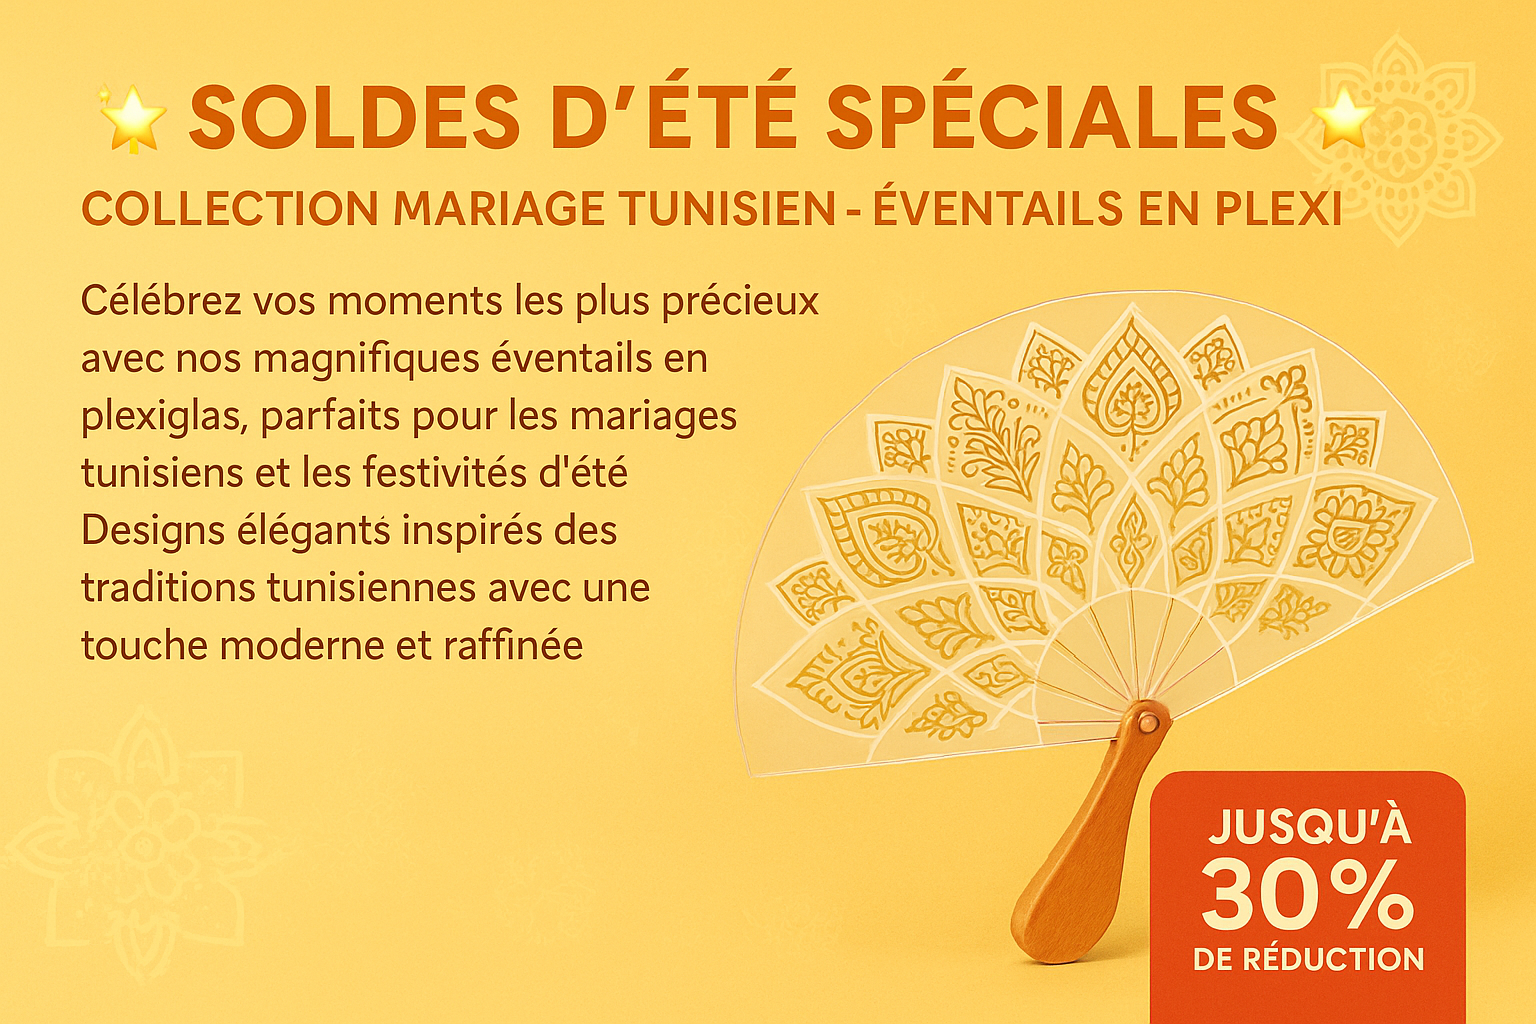
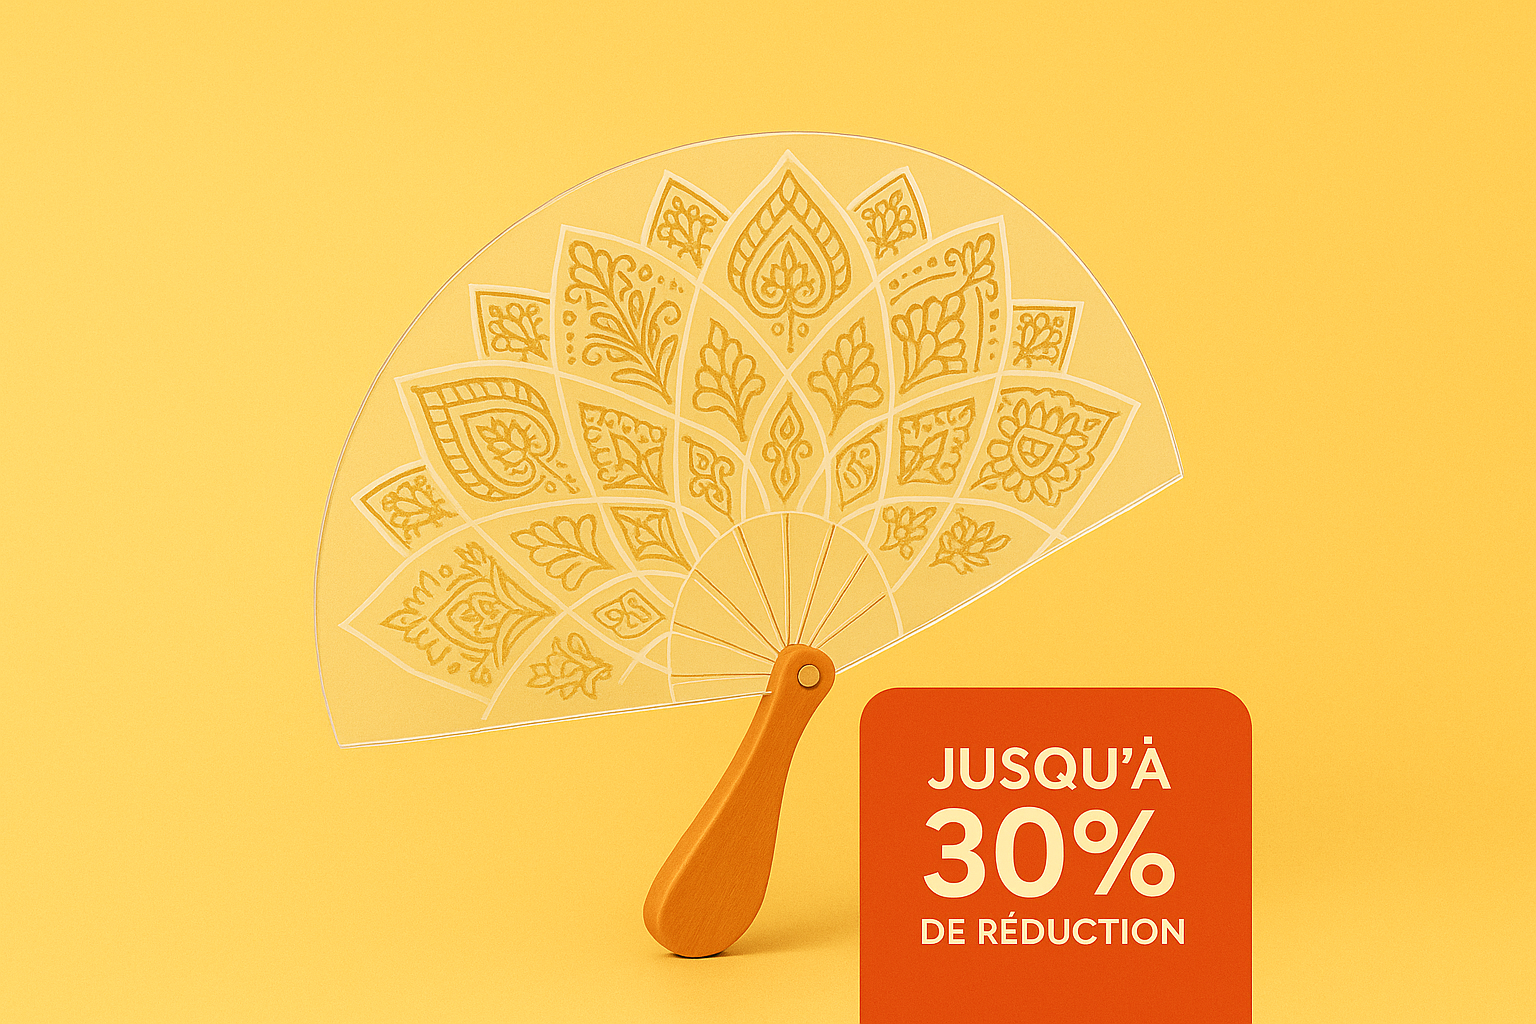
add readme

diff --git a/templates/products/product_list.html b/templates/products/product_list.html
@@ -643,7 +643,7 @@
                 </div>
             </div>
             <div class="summer-sales-image">
-                <img src="{% static 'images/sales.png' %}" alt="Soldes Été Mariage Tunisien - Éventail Plexi" style="max-width: 100%; height: auto; display: block; margin: 0 auto;" />
+                <img src="{% static 'images/sales.png' %}" alt="Soldes Été Mariage Tunisien - Éventail Plexi" style="max-width: 150%; height: auto; display: block; margin: 0 auto;" />
             </div>
         </div>
     </div>

diff --git a/README.md b/README.md
@@ -1,0 +1,12 @@
+# 🛍 Django E-commerce Website
+
+A simple e-commerce web application built with Django. This project allows users to browse products, place orders, and manage sales efficiently through a clean backend model.
+
+## 🔧 Features
+
+- Product listing with images, prices, and descriptions
+- Basic order creation with customer name and phone
+- Order item tracking with quantities and total prices
+- Status tracking for orders (`pending`, `confirmed`, `delivered`, `cancelled`)
+- Admin interface for product and order management
+
